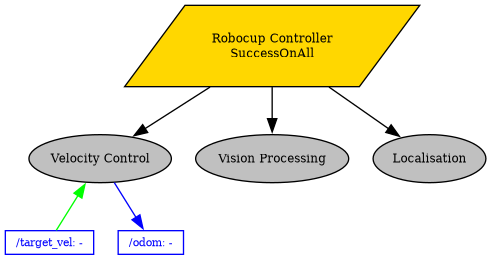
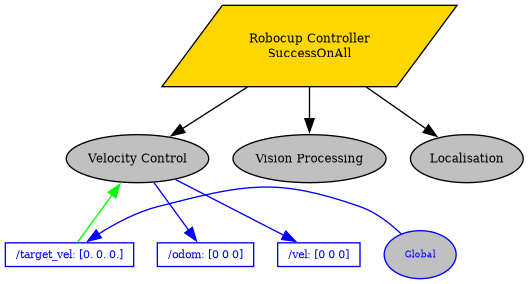
feat: velocity control

Changed region(s): [[0.0, 0.0, 1.0, 0.9846], [0.4277, 0.0923, 0.7026, 0.2462]]

diff --git a/controller/behaviours/velocity_control.py b/controller/behaviours/velocity_control.py
@@ -4,6 +4,24 @@ import time
 import numpy as np
 
 from interfaces import SupportsCommand
+from dataclasses import dataclass
+
+
+@dataclass
+class PDControl:
+    """Closed loop proportional-derivative control of a single axis."""
+
+    kp: float
+    kd: float
+    error_prev: float = 0
+
+    def update(self, error: float, delta: float) -> float:
+        proportional = error * self.kp
+        derivative = (error - self.error_prev) / delta * self.kd
+
+        self.error_prev = error
+
+        return proportional + derivative
 
 
 class VelocityControl(py_trees.behaviour.Behaviour):
@@ -14,10 +32,23 @@ class VelocityControl(py_trees.behaviour.Behaviour):
         self.blackboard = self.attach_blackboard_client(name="Velocity Control")
         self.command: SupportsCommand | None = None
 
+        # Sensed from odometry
         self.blackboard.register_key("odom", access=py_trees.common.Access.WRITE)
+        self.blackboard.register_key("vel", access=py_trees.common.Access.WRITE)
+
+        # Input from control
         self.blackboard.register_key("target_vel", access=py_trees.common.Access.READ)
 
         self.last_time = time.time()
+        self.blackboard.odom = np.array([0, 0, 0])
+        self.blackboard.vel = np.array([0, 0, 0])
+
+        # Separate PD controllers for each axis
+        self.controls = [
+            PDControl(kp=1, kd=0.1),  # x
+            PDControl(kp=1, kd=0.1),  # y
+            PDControl(kp=1, kd=0.1),  # w
+        ]
 
     def setup(self, **kwargs: typing.Any) -> None:
         """Used to dependency inject SupportsCommand instance."""
@@ -33,6 +64,18 @@ class VelocityControl(py_trees.behaviour.Behaviour):
         # We do this to reset the elapsed time the first time behaviour is ticked
         self.last_time = time.time()
 
+    def get_odometry(self):
+        if not self.command:
+            raise ValueError("Expected command to be initialised by setup()")
+
+        return np.array(self.command.get_odometry())
+
+    def send_command(self, vx: float, vy: float, vw: float):
+        if not self.command:
+            raise ValueError("Expected command to be initialised by setup()")
+
+        self.command.send_command(vx, vy, vw)
+
     def update(self) -> py_trees.common.Status:
         delta = time.time() - self.last_time
         self.last_time = time.time()
@@ -42,5 +85,18 @@ class VelocityControl(py_trees.behaviour.Behaviour):
                 f"Delta time too large: {delta:.3f}s — skipping PID update"
             )
             return py_trees.common.Status.RUNNING
+
+        odom = self.get_odometry()
+        self.blackboard.vel = (odom - self.blackboard.odom) / delta  # current velocity
+        self.blackboard.odom = odom
+
+        vx, vy, vw = (
+            control.update(target - actual, delta)
+            for target, actual, control in zip(
+                self.blackboard.target_vel, self.blackboard.vel, self.controls
+            )
+        )
+
+        self.send_command(vx, vy, vw)
 
         return py_trees.common.Status.RUNNING

diff --git a/controller/interfaces/command.py b/controller/interfaces/command.py
@@ -16,7 +16,7 @@ class SupportsCommand(Protocol):
         Arguments:
         vx -- velocity in the x direction (+ve = forwards)
         vy -- velocity in the y direction (+ve = left)
-        vw -- angular velocity (+ve = TODO)
+        vw -- angular velocity (+ve = anticlockwise)
         """
         raise NotImplementedError
 
@@ -34,6 +34,6 @@ class SupportsCommand(Protocol):
         Return value (tuple[x, y, w]):
         x -- odometry in the x direction in m (+ve = forwards)
         y -- odometry n the y direction in m (+ve = left)
-        w -- relative angle in radians (+ve = TODO)
+        w -- relative angle in radians (+ve = anticlockwise)
         """
         raise NotImplementedError

diff --git a/controller/root.py b/controller/root.py
@@ -1,4 +1,5 @@
 import py_trees
+import numpy as np
 
 from behaviours import VelocityControl
 
@@ -14,6 +15,12 @@ def create_root() -> py_trees.behaviour.Behaviour:
 
     This is kept in its own method so it can be used to generate diagrams with py-trees-render
     """
+    # Blackboard static initialisation
+    blackboard = py_trees.blackboard.Client(name="Global")
+    blackboard.register_key("target_vel", access=py_trees.common.Access.WRITE)
+    blackboard.target_vel = np.array([0.0, 0.0, 0.0])
+
+    # Tree building
     root = py_trees.composites.Parallel(
         name="Robocup Controller",
         policy=py_trees.common.ParallelPolicy.SuccessOnAll(synchronise=False),

diff --git a/controller/components/mocks/command_mock.py b/controller/components/mocks/command_mock.py
@@ -4,7 +4,7 @@ import time
 
 class CommandMock:
     def __init__(self) -> None:
-        self.odom = np.array([0, 0, 0])
+        self.odom = np.array([0.0, 0.0, 0.0])
         self.vx = 0
         self.vy = 0
         self.vw = 0
